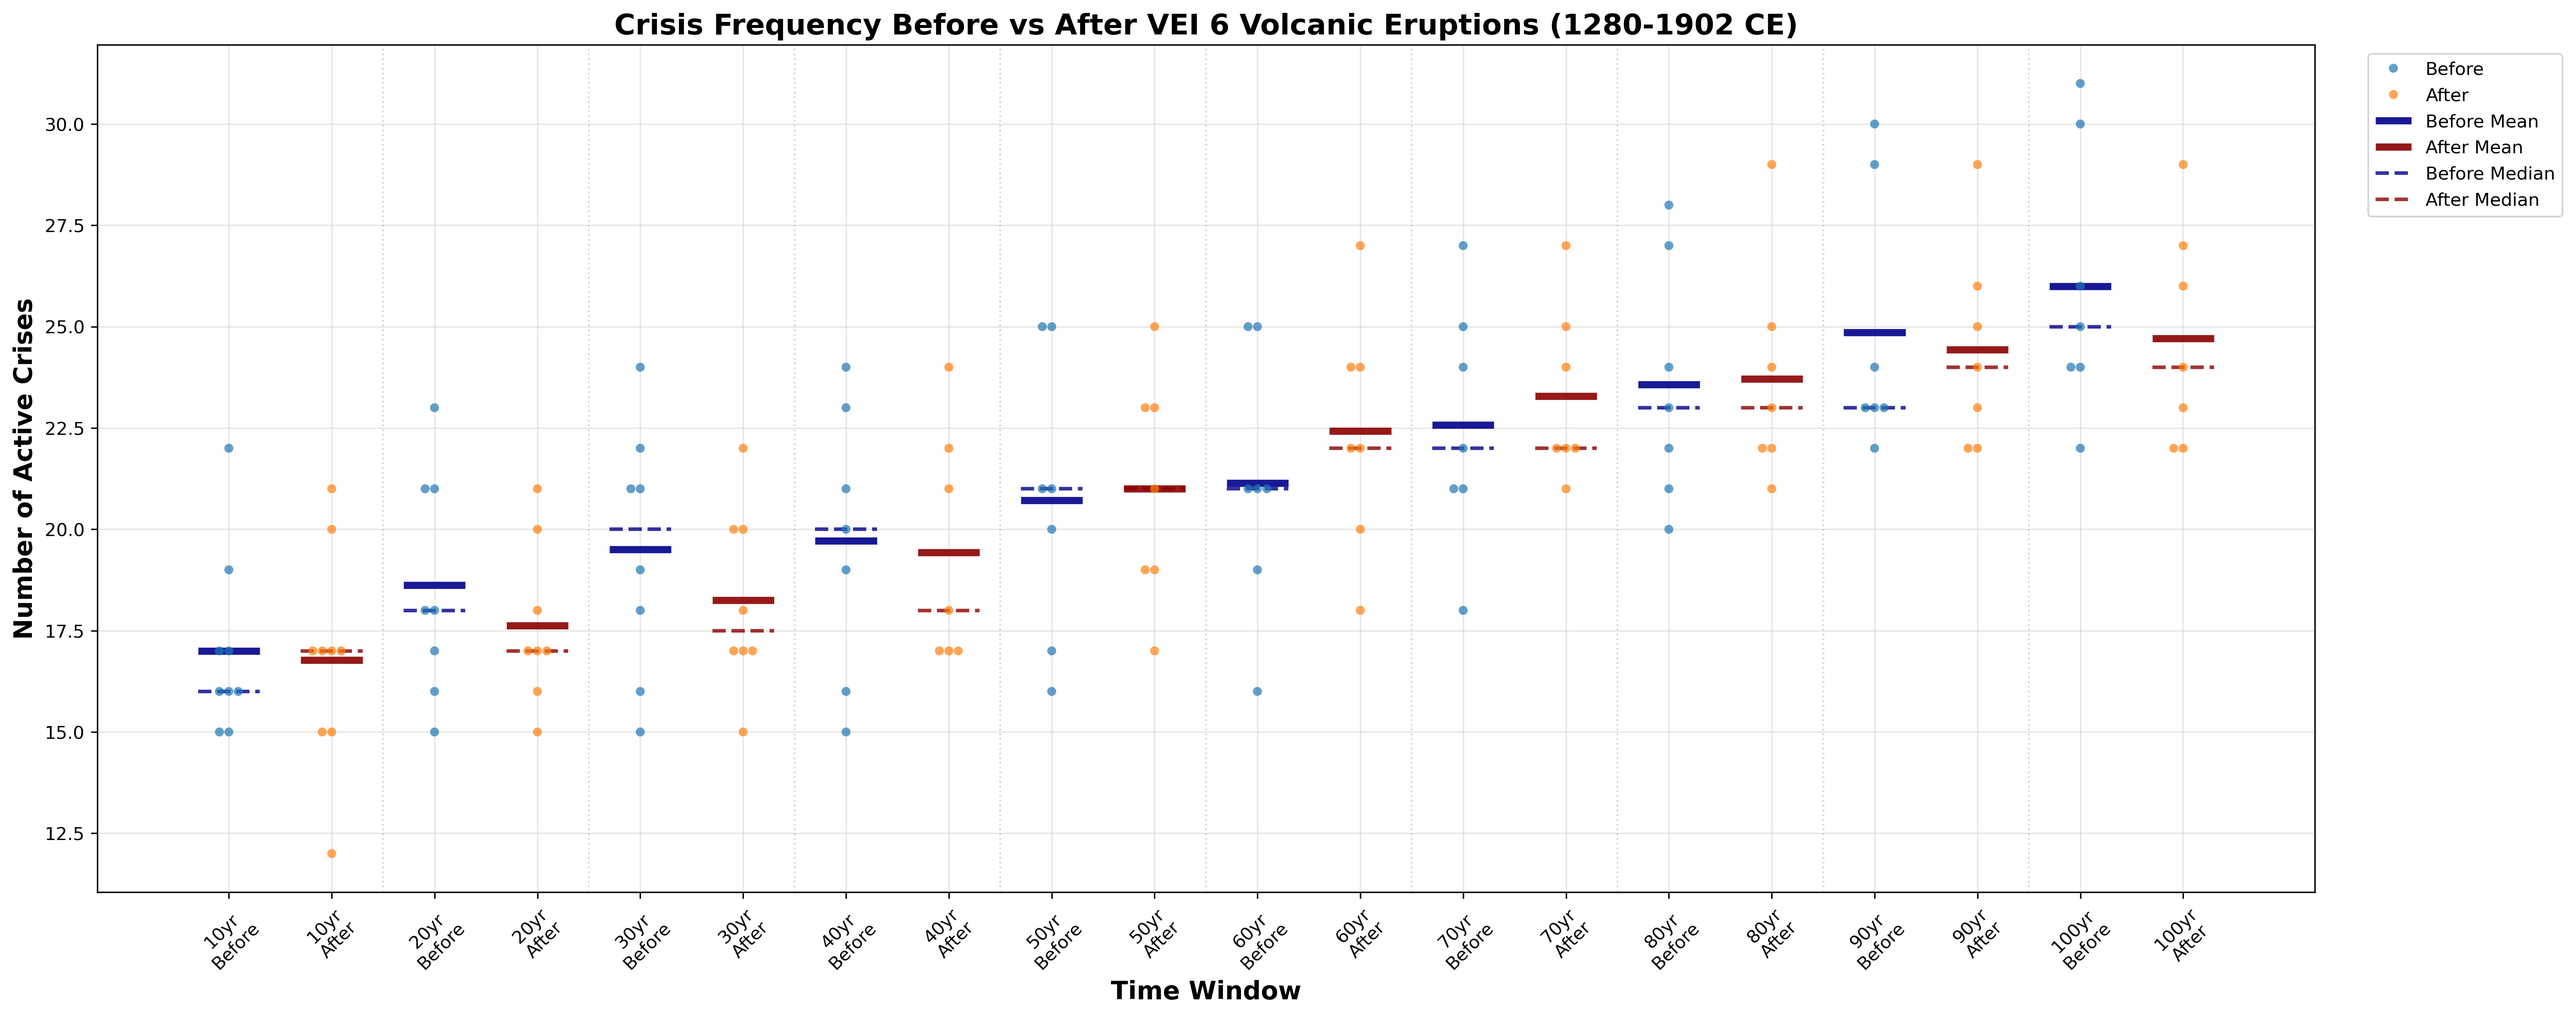
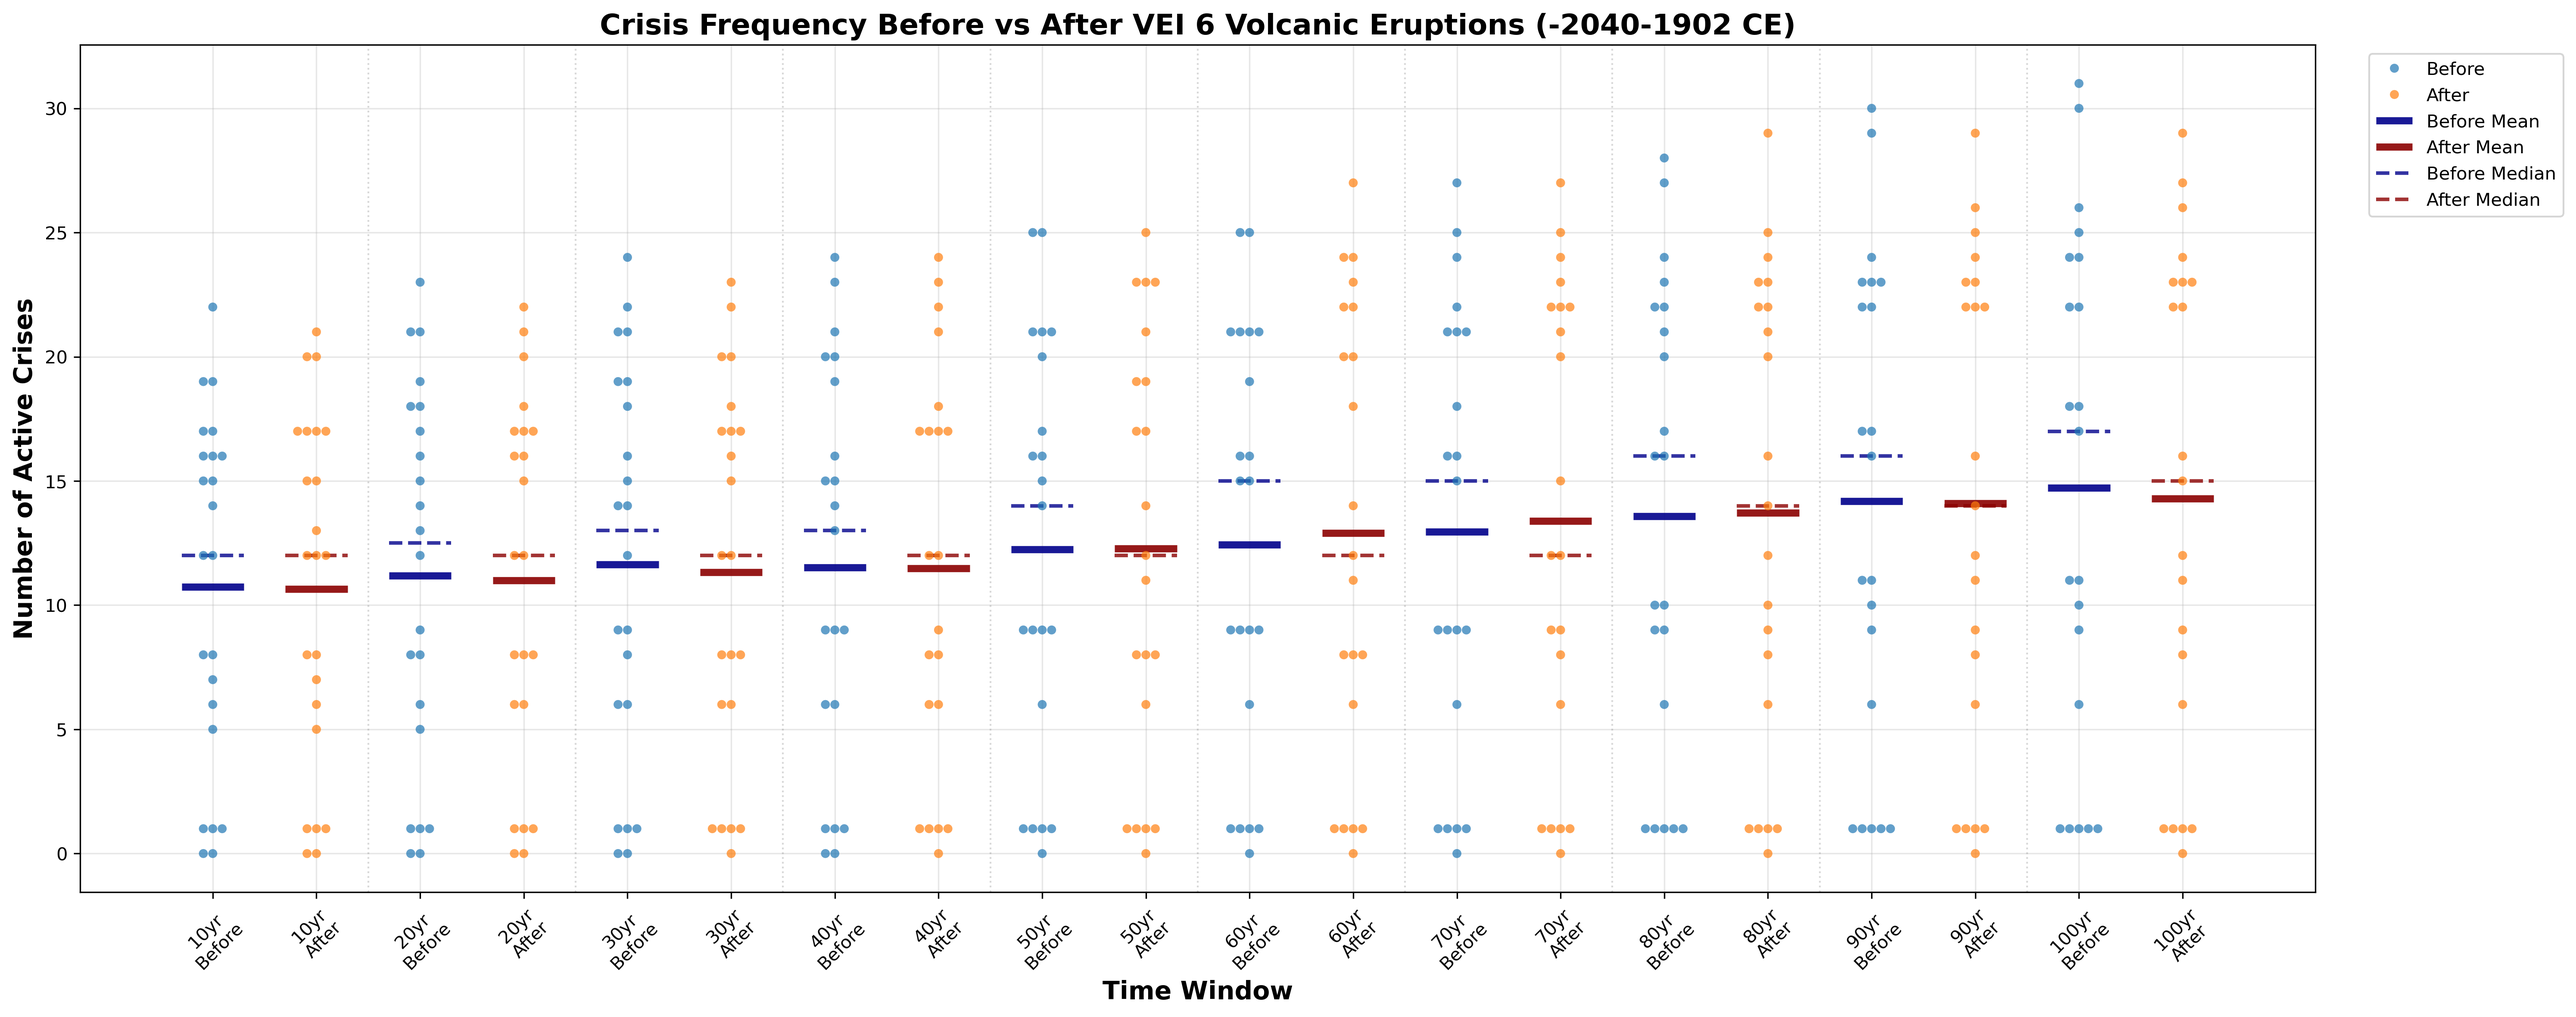
All data again

diff --git a/src/main.py b/src/main.py
@@ -6,7 +6,7 @@ from plotting import create_all_plots
 
 def main():
     # Set analysis start year (None = all data, or specific year like 1000, 1500, etc.)
-    START_YEAR = 1000
+    START_YEAR = None
     
     print("VOLCANO CRISIS ANALYSIS")
     if START_YEAR:
